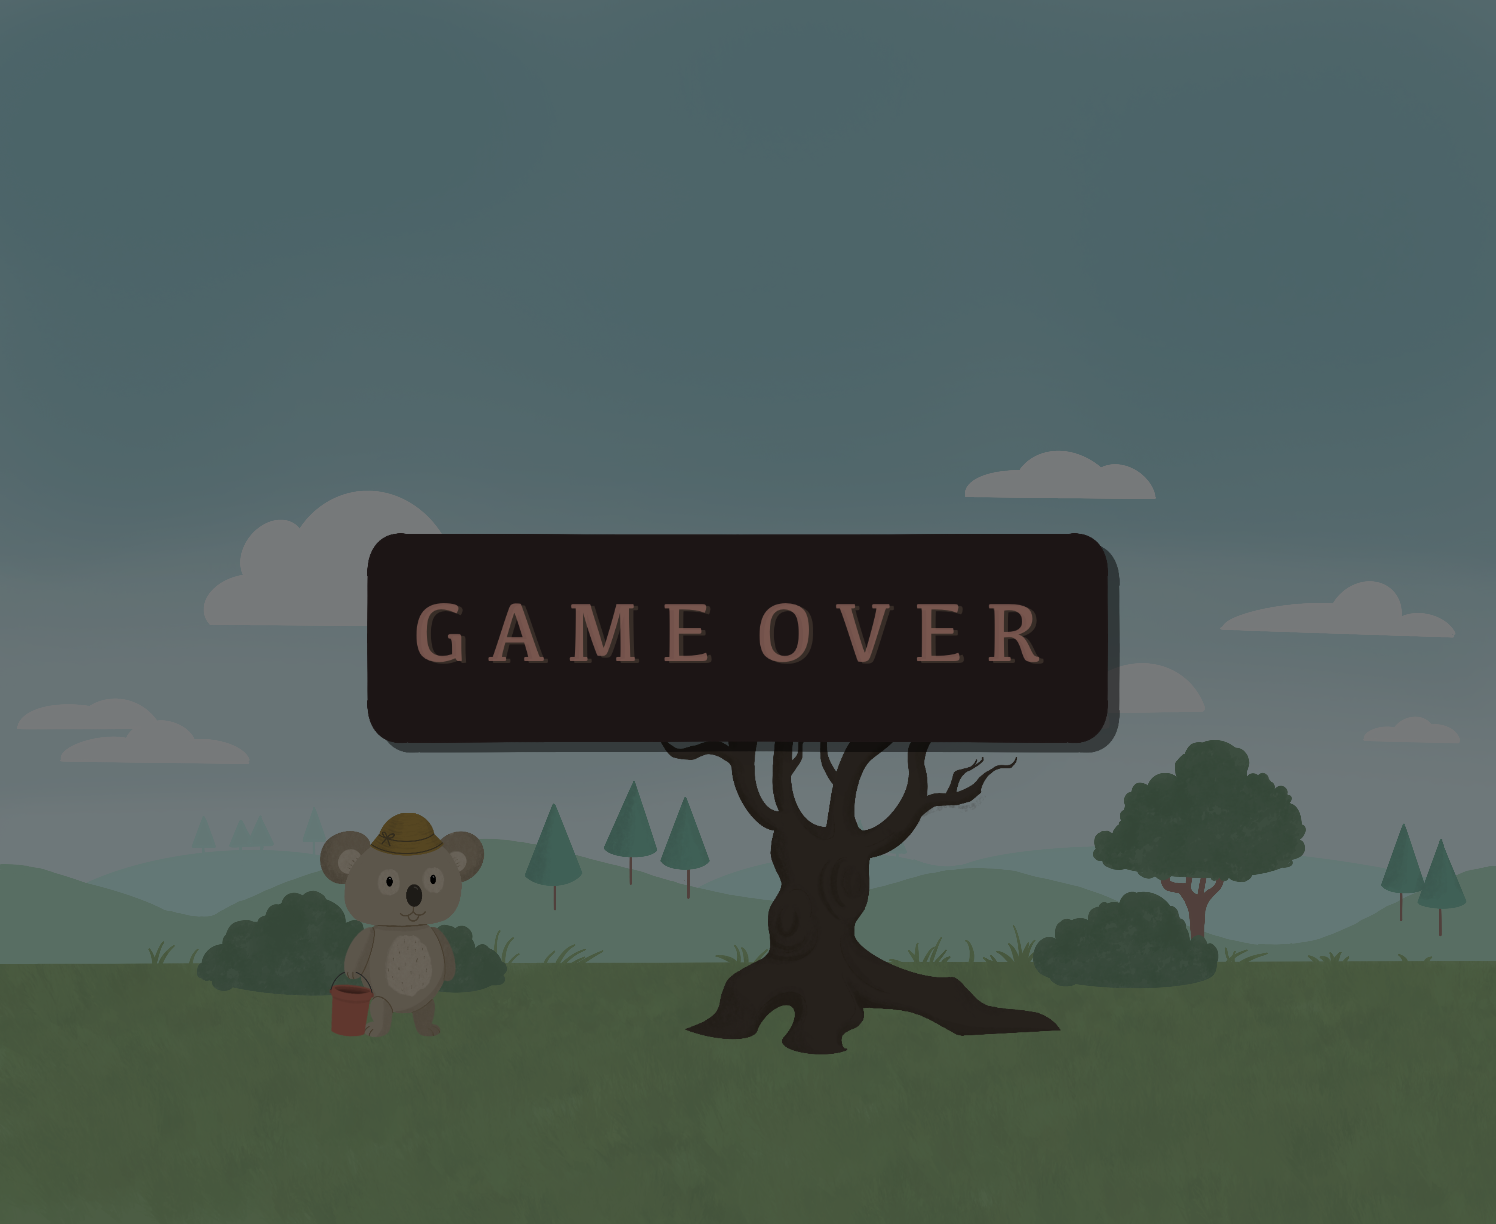
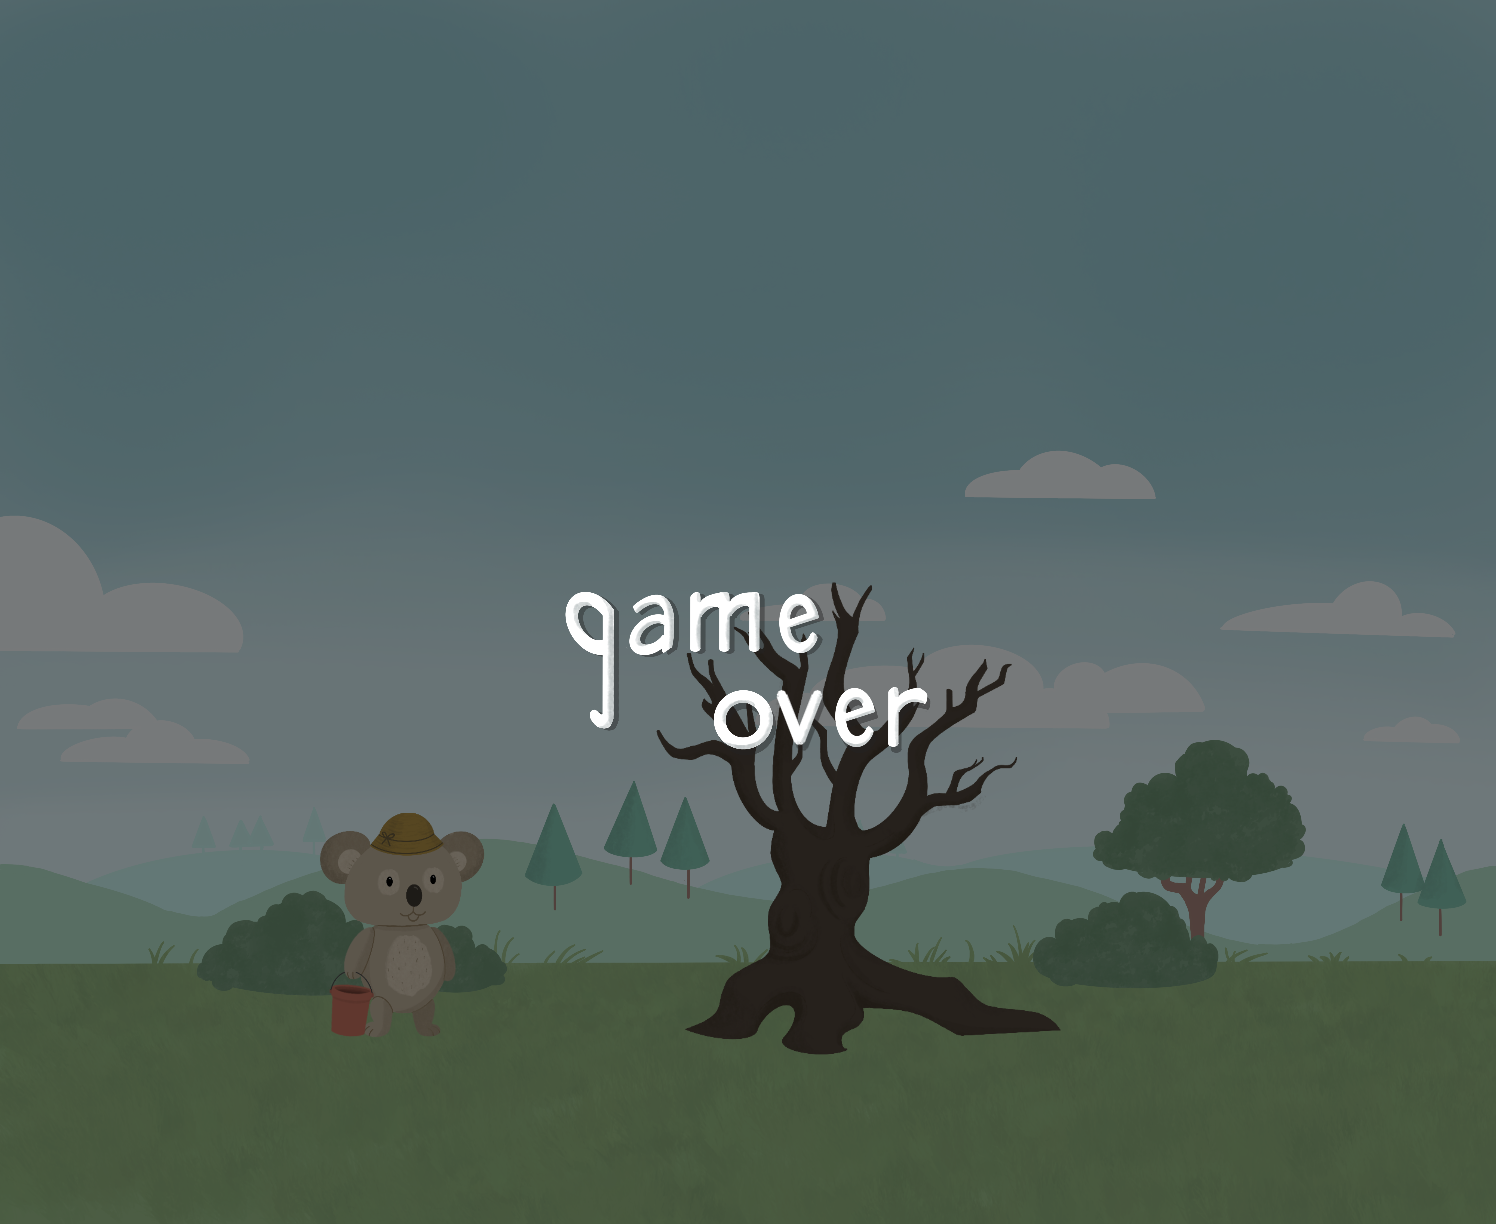
remove all unncessary images and add char animation for all states

Changed region(s): [[0.1537, 0.4036, 0.7687, 0.6209], [0.0, 0.4036, 0.0615, 0.4657]]

diff --git a/components/player.js b/components/player.js
@@ -15,19 +15,41 @@ Crafty.c("Player", {
          	0 + (this.w/6), this.h - 10
         ]);
 
-		this.reel("walking_right", 500, [
-		    [2, 1], [1, 1], [2, 0], [1, 1]
+		this.reel("walking_right_no", 500, [
+		    [0, 2], [4, 1], [1, 2], [4, 1]
 		])
 
-		this.reel("walking_left", 500, [
-		    [0, 1], [0, 0], [1, 0], [0, 0]
+		this.reel("walking_left_no", 500, [
+		    [2, 1], [1, 1], [3, 1], [1, 1]
+		])
+
+		this.reel("walking_right_empty", 500, [
+		    [4, 0], [3, 0], [0, 1], [3, 0]
+		])
+
+		this.reel("walking_left_empty", 500, [
+		    [1, 0], [0, 0], [2, 0], [0, 0]
+		])
+		this.reel("walking_right_water", 500, [
+		    [5, 3], [5, 1], [5, 2], [5, 1]
+		])
+
+		this.reel("walking_left_water", 500, [
+		    [5, 0], [3, 3], [4, 3], [3, 3]
+		])
+		this.reel("pouring_right", 500, [
+		    [0, 3], [1, 3], [2, 3]
+		])
+
+		this.reel("pouring_left", 500, [
+		    [2, 2], [3, 2], [4, 2]
 		])
 
 		var playerNotification = Crafty.e("PlayerNotification");
 		this.attach(playerNotification);
 
 		this.twoway(player_speed, player_jump);
-		
+
 		this.setKeybinding();
 		this.setCollisionHitActions();
 
@@ -40,7 +62,7 @@ Crafty.c("Player", {
 
 		this.bind("changePlayerSpeed", function() {
 			this.twoway(player_speed, player_jump);
-		});		
+		});
     },
     place: function(x, y) {
         this.x = x;
@@ -49,46 +71,28 @@ Crafty.c("Player", {
     },
 	charImg: function() {
 		//code controlling the char Sprite state
-		this.removeComponent("bear_bucket_right");
-		this.removeComponent("bear_bucket_full_left");
-		this.removeComponent("bear_bucket_left");
-		this.removeComponent("bear_bucket_full_right");
-		this.removeComponent("bear_right");
-		this.removeComponent("bear_left");
 		if (inBucket.water > 0 || inBucket.poo > 0) {
 			if (facing == "right") {
-				this.addComponent("bear_bucket_full_right");
-				this.w = 314 / 5;
-				this.h = 429 / 5;
+				this.animate("walking_right_water", -1);
 			}
 			else {
-				this.addComponent("bear_bucket_full_left");
-				this.w = 314 / 5;
-				this.h = 429 / 5;
+				this.animate("walking_left_water", -1);
 			}
 		}
 		else if (hasBucket == false) {
 			if (facing == "right") {
-				this.addComponent("bear_right");
-				this.w = 314 / 5;
-				this.h = 429 / 5;
+				this.animate("walking_right_no", -1);
 			}
 			else {
-				this.addComponent("bear_left");
-				this.w = 314 / 5;
-				this.h = 429 / 5;
+				this.animate("walking_left_no", -1);
 			}
 		}
 		else {
 			if (facing == "right") {
-				this.addComponent("bear_bucket_right");
-				this.w = 314 / 5;
-				this.h = 429 / 5;
+				this.animate("walking_right_empty", -1);
 			}
 			else {
-				this.addComponent("bear_bucket_left");
-				this.w = 314 / 5;
-				this.h = 429 / 5;
+				this.animate("walking_left_empty", -1);
 			}
 		}
 	},
@@ -96,24 +100,19 @@ Crafty.c("Player", {
 		this.bind("KeyDown", function(arrow) {
 			if (arrow.key == Crafty.keys.LEFT_ARROW) {
 				facing = "left";
-				this.animate("walking_left", -1);
-				// this.charImg();
-			} else if (arrow.key == Crafty.keys.RIGHT_ARROW) {
+				this.charImg();
+			}
+			else if (arrow.key == Crafty.keys.RIGHT_ARROW) {
 				facing = "right";
-				this.animate("walking_right", -1);
-;				// this.charImg();
+				this.charImg();
 			}
 		});
 
 		this.bind("KeyUp", function(arrow) {
 			if (arrow.key == Crafty.keys.LEFT_ARROW) {
-				facing = "left";
 				this.pauseAnimation();
-				// this.charImg();
 			} else if (arrow.key == Crafty.keys.RIGHT_ARROW) {
-				facing = "right";
 				this.pauseAnimation();
-;				// this.charImg();
 			}
 		});
 

diff --git a/assets.js b/assets.js
@@ -47,17 +47,11 @@ var gameAssets = {
             "tileh": 230,
             "map": {"cloud": [0, 0]}
         },
-        "assets/images/bear_walking.png": {
+        "assets/images/player.png": {
             "tile": 314,
             "tileh": 429,
-            "paddingAroundBorder": 1,
             "map": {
-                "bear_right": [1,1],
-                "bear_left": [0,0],
-                "bear_bucket_right": [1,1],
-                "bear_bucket_left": [0,0],
-                "bear_bucket_full_right": [1,1],
-                "bear_bucket_full_left": [0,0],
+                "bear_right": [4,1],
             },
         },
 		"assets/images/raindrop.png": {
